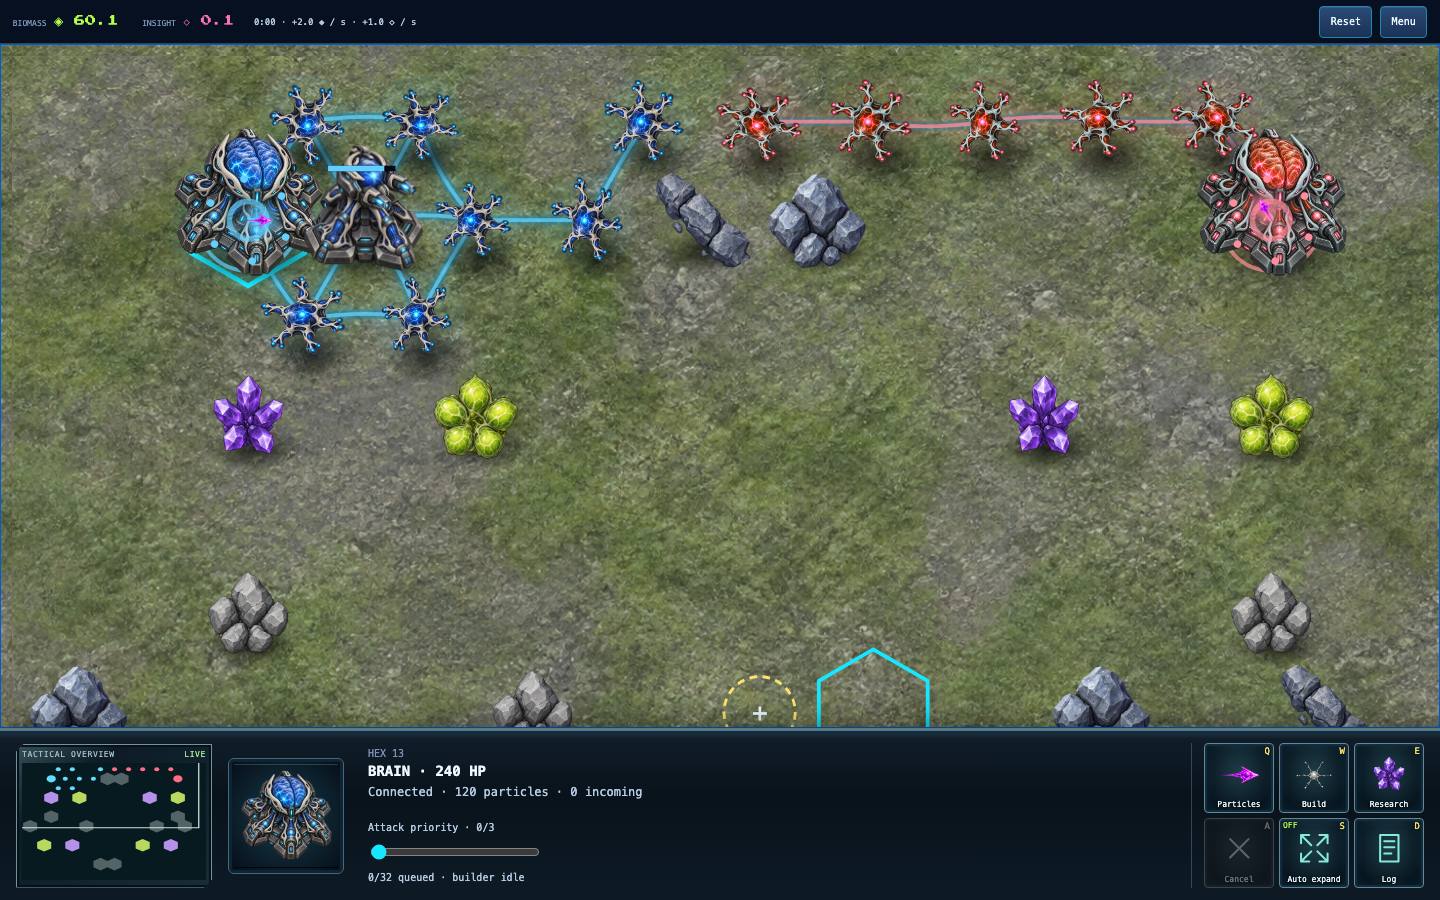
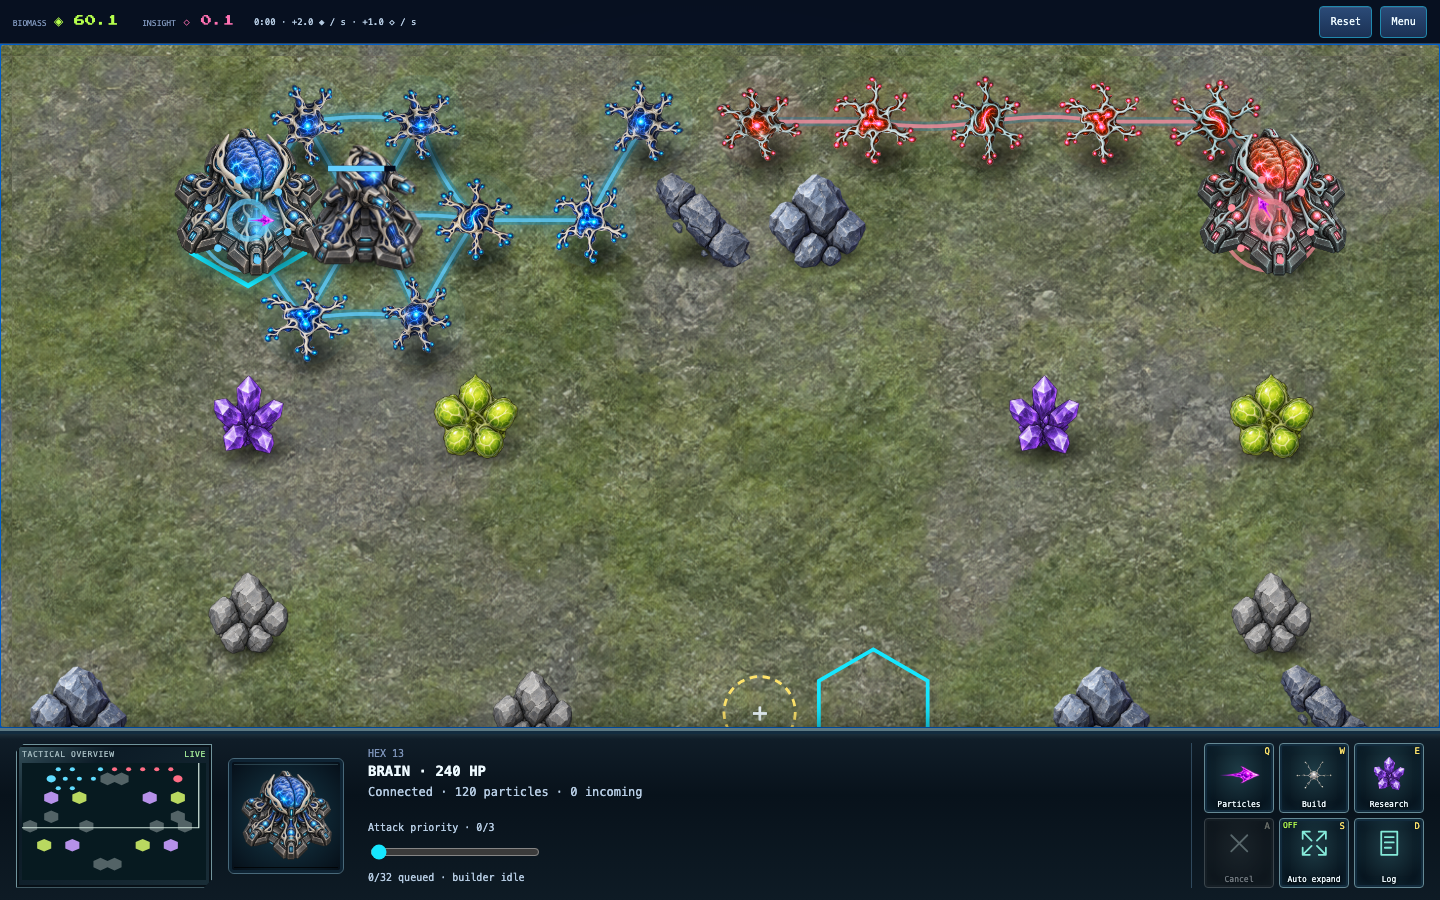
fix(neural-defence): vary neuron anatomy and select raised building bodies

diff --git a/games/neural-defence/src/render/board.ts b/games/neural-defence/src/render/board.ts
@@ -120,7 +120,7 @@ export function neuronArtwork(
   const { x, y } = hexCenter(width, cell);
   const seed = (cell * 37 + slot * 17) % 97;
   const size = 49 + (seed % 7);
-  return `<g class="neuron-body" data-phase="${seed}" style="--team:${colors[slot]};transform-origin:${x}px ${y}px"><g style="filter:${teamArtFilter(slot)}" transform="rotate(${(seed % 6) * 60} ${x} ${y})">${image(sprites, "neuron-v3", x, y, size) || `<circle class="structure-core" cx="${x}" cy="${y}" r="12"/>`}</g></g>`;
+  return `<g class="neuron-body" data-phase="${seed}" style="--team:${colors[slot]};transform-origin:${x}px ${y}px"><g style="filter:${teamArtFilter(slot)}" transform="rotate(${(seed % 6) * 60} ${x} ${y})">${image(sprites, structureArt("neuron", cell), x, y, size) || image(sprites, "neuron-v3", x, y, size) || `<circle class="structure-core" cx="${x}" cy="${y}" r="12"/>`}</g></g>`;
 }
 export function structureArtwork(
   width: number,
@@ -158,7 +158,15 @@ function structureMarkup(world: Readonly<World>, sprites: Sprites): string {
         slot,
         sprites,
       );
-      return `<g class="structure structure-${s.kind} ${s.connected ? "" : "disconnected"}" data-cell="${s.cell}" style="--team:${colors[slot]}"><ellipse class="contact-shadow" cx="${x + 4}" cy="${y + 19}" rx="${s.kind === "neuron" ? 23 : 34}" ry="16" fill="url(#contact-shadow)"/><circle class="owner-ring" cx="${x}" cy="${y}" r="${s.kind === "brain" ? 27 : 10}"/>${artwork || `<circle class="structure-core" cx="${x}" cy="${y}" r="15"/>`}${stock && s.connected ? `<g class="supply-orbit" style="transform-origin:${x}px ${y}px">${Array.from({ length: Math.min(6, Math.ceil(stock / 8)) }, (_, i) => `<circle cx="${x + Math.cos((i * Math.PI) / 3) * 22}" cy="${y + Math.sin((i * Math.PI) / 3) * 22}" r="2" fill="${colors[slot]}"/>`).join("")}</g>` : ""}${health}<circle class="charge-halo" cx="${x}" cy="${y}" r="10" opacity="${Math.min(0.7, stock / 48)}"/></g>`;
+      // Select the raised body as well as the ground footprint. These are
+      // presentation hit regions only; placement continues to target terrain.
+      const hit =
+        s.kind === "neuron"
+          ? { rx: 17, ry: 17, offset: 0 }
+          : s.kind === "brain" || s.kind === "relay"
+            ? { rx: 24, ry: 41, offset: -8 }
+            : { rx: 24, ry: 33, offset: -3 };
+      return `<g class="structure structure-${s.kind} ${s.connected ? "" : "disconnected"}" data-cell="${s.cell}" style="--team:${colors[slot]}"><ellipse class="contact-shadow" cx="${x + 4}" cy="${y + 19}" rx="${s.kind === "neuron" ? 23 : 34}" ry="16" fill="url(#contact-shadow)"/><circle class="owner-ring" cx="${x}" cy="${y}" r="${s.kind === "brain" ? 27 : 10}"/>${artwork || `<circle class="structure-core" cx="${x}" cy="${y}" r="15"/>`}${stock && s.connected ? `<g class="supply-orbit" style="transform-origin:${x}px ${y}px">${Array.from({ length: Math.min(6, Math.ceil(stock / 8)) }, (_, i) => `<circle cx="${x + Math.cos((i * Math.PI) / 3) * 22}" cy="${y + Math.sin((i * Math.PI) / 3) * 22}" r="2" fill="${colors[slot]}"/>`).join("")}</g>` : ""}${health}<circle class="charge-halo" cx="${x}" cy="${y}" r="10" opacity="${Math.min(0.7, stock / 48)}"/><ellipse class="structure-hit" cx="${x}" cy="${y + hit.offset}" rx="${hit.rx}" ry="${hit.ry}"/></g>`;
     })
     .join("");
 }

diff --git a/scripts/neural-defence-terrain-smoke.ts b/scripts/neural-defence-terrain-smoke.ts
@@ -28,6 +28,31 @@ for (const [name, browserType] of [
     await page.locator('[data-action="new-game"]').click();
     await page.locator('[data-action="mode-sandbox"]').click();
     await page.locator('[data-action="start"]').click();
+    // The brain projects above its base hex. Selection should pick the body;
+    // placement at the same point should still pick the ground behind it.
+    const head = await page
+      .locator(".structure-brain .building-art image")
+      .first()
+      .evaluate((node) => {
+        const image = node as SVGImageElement;
+        const x =
+          Number(image.getAttribute("x")) +
+          Number(image.getAttribute("width")) / 2;
+        const y =
+          Number(image.getAttribute("y")) +
+          Number(image.getAttribute("height")) * 0.18;
+        const point = new DOMPoint(x, y).matrixTransform(image.getScreenCTM()!);
+        return { x: point.x, y: point.y };
+      });
+    await page.mouse.click(head.x, head.y);
+    assert.match(await page.locator(".tile-heading").innerText(), /brain/i);
+    await page.keyboard.press("w");
+    await page.keyboard.press("q");
+    await page.mouse.move(head.x + 1, head.y);
+    await page.locator('.placement-preview[data-valid="true"]').waitFor();
+    await page.keyboard.press("Escape");
+    // Restore the brain context before the terrain checks below.
+    await page.mouse.click(head.x, head.y);
     const cells = await page
       .locator("#nd-board .terrain-layer .hex")
       .evaluateAll((tiles) =>
@@ -97,8 +122,25 @@ for (const [name, browserType] of [
       "minimap moves camera",
     );
     assert.deepEqual(errors, []);
+    await page.goto(url);
+    await page.locator('[data-action="new-game"]').click();
+    await page.locator('[data-action="mode-combat-lab"]').click();
+    await page.locator('[data-action="start"]').click();
+    const anatomies = await page
+      .locator("#nd-board .neuron-body image")
+      .evaluateAll((images) => [
+        ...new Set(images.map((node) => node.getAttribute("href"))),
+      ]);
+    assert.equal(
+      anatomies.length,
+      3,
+      "live network shows three different neuron anatomies",
+    );
+    await page.screenshot({ path: `/tmp/neural-anatomy-${name}-desktop.png` });
+    await page.setViewportSize({ width: 390, height: 844 });
+    await page.screenshot({ path: `/tmp/neural-anatomy-${name}-phone.png` });
     console.log(
-      `${name}: terrain matches map data, visible rock rejects placement, minimap pans`,
+      `${name}: raised body selection, ground placement, terrain rejection and minimap navigation passed`,
     );
   } finally {
     await browser.close();

diff --git a/games/neural-defence/tests/polish.test.ts b/games/neural-defence/tests/polish.test.ts
@@ -4,8 +4,12 @@ import { readFileSync } from "node:fs";
 import { createMatch, loadMap } from "../src/engine/index.js";
 import { createCueTracker } from "../src/app/audio.js";
 import { minimapCell, minimapMarkup } from "../src/render/minimap.js";
-import { hexCenter } from "../src/render/board.js";
-import { structureArt } from "../src/render/art.js";
+import {
+  hexCenter,
+  neuronArtwork,
+  structureArtwork,
+} from "../src/render/board.js";
+import { structureArt, NEURON_ART } from "../src/render/art.js";
 
 function world() {
   return createMatch(
@@ -46,6 +50,33 @@ test("tower identities are distinct across the shared presentation contract", ()
   );
   assert.equal(structureArt("brain"), "brain-v3");
   assert.equal(structureArt("neuron"), "neuron-v3");
+});
+
+test("neuron anatomy varies with location and remains identical across ghost, world and portrait", () => {
+  const sprites = Object.fromEntries(
+    NEURON_ART.map((name) => [name, `/${name}.png`]),
+  );
+  const used = new Set<string>();
+  for (let cell = 0; cell < 40; cell++) {
+    const name = structureArt("neuron", cell);
+    used.add(name);
+    const worldArt = neuronArtwork(12, cell, 0, sprites);
+    const ghostArt = structureArtwork(12, cell, "neuron", 0, sprites);
+    assert.equal(ghostArt, worldArt);
+    assert.ok(
+      worldArt.includes(`href="/${name}.png"`),
+      "rendered body matches the portrait resolver",
+    );
+    assert.ok(
+      neuronArtwork(12, cell, 1, sprites).includes(`href="/${name}.png"`),
+      "team tint does not change anatomy",
+    );
+  }
+  assert.deepEqual(
+    [...used].sort(),
+    [...NEURON_ART].sort(),
+    "uses genuinely different sprite files, not just transformed copies",
+  );
 });
 
 test("audio cues follow resolved events once, remain bounded and ignore rollback bursts", () => {

diff --git a/games/neural-defence/src/render/art.ts b/games/neural-defence/src/render/art.ts
@@ -1,9 +1,19 @@
 import type { StructureKind } from "../engine/types.js";
 
 /** One visual identity shared by battlefield, command card and inspection. */
-export function structureArt(kind: StructureKind): string {
+export const NEURON_ART = [
+  "neuron-v3",
+  "neuron-lobed-v4",
+  "neuron-folded-v4",
+] as const;
+
+export function structureArt(kind: StructureKind, cell?: number): string {
   if (kind === "brain") return "brain-v3";
-  if (kind === "neuron") return "neuron-v3";
+  if (kind === "neuron") {
+    if (cell === undefined) return NEURON_ART[0];
+    const seed = (Math.imul(cell + 1, 0x45d9f3b) ^ ((cell + 1) >>> 3)) >>> 0;
+    return NEURON_ART[seed % NEURON_ART.length]!;
+  }
   return `tower-${kind === "tower" ? "pulse" : kind}-v3`;
 }
 

diff --git a/games/neural-defence/src/app/app.ts b/games/neural-defence/src/app/app.ts
@@ -390,7 +390,7 @@ export function mountNeuralDefence(
     const sprite = (name: string) =>
       dependencies.sprites?.[`${name}-v2`] ?? dependencies.sprites?.[name];
     const portrait = structure
-      ? sprite(structureArt(structure.kind))
+      ? sprite(structureArt(structure.kind, structure.cell))
       : cell?.terrain === "deposit"
         ? sprite(`deposit-${cell.resourceKind}`)
         : sprite(

diff --git a/games/neural-defence/src/app/neural-defence.css b/games/neural-defence/src/app/neural-defence.css
@@ -931,6 +931,14 @@ select {
 .structure.disconnected {
   opacity: 0.4;
 }
+.structure-hit {
+  fill: transparent;
+  pointer-events: all;
+  cursor: pointer;
+}
+.is-placing .structure-layer * {
+  pointer-events: none;
+}
 .supply-orbit {
   pointer-events: none;
 }

diff --git a/docs/neural-defence/art/NEURON_FORMS.md b/docs/neural-defence/art/NEURON_FORMS.md
@@ -1,0 +1,26 @@
+# Distinct neuron forms
+
+The original v3 neuron remains one form. Two additional transparent PNGs give the network visibly different cell bodies, rather than just rotating one silhouette:
+
+- `games/neural-defence/src/assets/neuron-lobed-v4.png`: three-lobed soma and three linked nuclei.
+- `games/neural-defence/src/assets/neuron-folded-v4.png`: folded oval soma and curved synaptic fissure.
+
+Both retain six primary roots, the same cobalt/ivory materials and overhead view. These are cosmetic forms of one unit, with identical gameplay. A stable cell-based resolver in `render/art.ts` chooses the form; world, placement ghost and selected portrait share it. Ownership only changes tint. The build catalog uses the representative original form.
+
+Generated with the built-in image generator, using `neuron-v3.png` as the visual reference. Both files were inspected directly, alpha was verified, and the actual combat-lab network was captured on desktop and phone. Engine state and map geometry are unchanged.
+
+## Exact prompts
+
+Lobed:
+
+> Use the supplied neuron sprite as the material, lighting and camera reference for a SECOND distinct neuron of the same biological RTS species. Create one isolated game sprite, genuine transparent alpha background. Preserve deep cobalt translucent living tissue, restrained bright cyan interior veins, smooth ivory fibrous ribs, sculpted painterly 3D volume, overhead orthographic camera, upper-left light and soft underside shading. Change the anatomy visibly: a broad asymmetrical three-lobed soma with three small glowing nuclei linked inside its membrane instead of one round central bulb; short thick root collars transitioning into finer curled tendrils. Exactly six principal connection arms, tips arranged roughly every 60 degrees around the center so it fits the same six-neighbor hex network. Asymmetric branching and varied root thickness, organic living tissue, not a machine or gun. The soma should occupy the central 45 percent of the overall footprint so its different body reads at 60px. Compact round footprint and clear transparent margins. No floor, scene, text, UI, border, shadow plane, extra sprites, or solid background. Entire object visible.
+
+Folded:
+
+> Use the supplied neuron sprite as the material, lighting and camera reference for a THIRD distinct neuron of the same biological RTS species. One isolated game sprite on genuine transparent alpha background. Preserve deep cobalt translucent living tissue, restrained cyan interior veins, ivory fibrous ribs, sculpted painterly 3D volume, overhead orthographic camera, upper-left light and soft underside shading. Change anatomy visibly: a compact slightly elongated kidney-shaped soma wrapped by an open spiral of ivory neural folds, with one long bright cyan synaptic fissure instead of a round central glowing bulb. The body is dense, folded and low, not hollow. Six principal organic connection roots roughly every 60 degrees around the soma, thick knotted bases and finer irregular branching tips; same six-neighbor hex network footprint. The soma occupies the central 45 percent so its unusual folded form reads when 60px wide. Living tissue, not a machine, eyeball or gun. Compact round footprint, clear transparent margin, all root tips visible. No floor, scene, text, UI, border, shadow plane, extra sprites, or solid background.
+
+## Selection correction
+
+Tall building images project above their ground hex. Previously, clicking the brain's upper body selected the empty hex behind it. Presentation-only hit regions now select the building. During placement these regions are disabled, so the same pointer position still targets the ground. This does not enlarge the building's simulation footprint.
+
+The terrain browser smoke covers that exact pointer location in Chromium and WebKit, plus all three distinct neuron image URLs in a real network. Unit checks cover ghost/world/portrait consistency and stable anatomy across ownership colors. Independent diff review found no actionable regression.

diff --git a/docs/neural-defence/ASSET_MANIFEST.md b/docs/neural-defence/ASSET_MANIFEST.md
@@ -2,7 +2,7 @@
 
 ## Current presentation (2026-09-25)
 
-The current renderer uses `brain-v3.png`, `neuron-v3.png`, `tower-pulse-v3.png`, `tower-siege-v3.png`, and `tower-relay-v3.png`. They are individual transparent sculpted sprites, tinted by owner. World buildings, placement ghosts, portraits and build commands share these identities. Selection and status remain separate presentation layers. Completed neurons have stable size/orientation variation and reduced-motion-aware breathing; links represent actual friendly adjacency.
+The current renderer uses `brain-v3.png`, three neuron forms (`neuron-v3.png`, `neuron-lobed-v4.png`, `neuron-folded-v4.png`), `tower-pulse-v3.png`, `tower-siege-v3.png`, and `tower-relay-v3.png`. They are individual transparent sculpted sprites, tinted by owner. World buildings, placement ghosts and portraits share these identities; the build catalog uses representative forms. Selection and status remain separate presentation layers. Completed neurons have stable anatomical, size and orientation variation and reduced-motion-aware breathing; links represent actual friendly adjacency. [Neuron form prompts and selection verification](art/NEURON_FORMS.md) document the follow-up.
 
 The continuous open floor is **`terrain-walkable-v5.png`**. It depicts only level moss, earth and small grit. The rejected v4 background suggested large rock ridges on open cells and is not used. All raised obstacles and resource deposits come from `world.map.cells`, using the category-restricted [terrain art catalog](../../games/neural-defence/src/render/terrain-art.ts). Art and contact shadows are clipped to their cell. Unknown or mismatched variant names use the category default; a blocked tile remains visible even if its sprite is unavailable. The tactical minimap draws the same complete terrain footprints. No painted background feature adds collision, elevation or pathfinding rules.
 

diff --git a/docs/neural-defence/verification/PREMIUM_TERRAIN.md b/docs/neural-defence/verification/PREMIUM_TERRAIN.md
@@ -19,3 +19,9 @@ Independent review found that suspending audio on mute preserved scheduled voice
 ## Limits
 
 Phone evidence is browser emulation, not physical hardware. The reference art quality remains a user-facing acceptance question; test success is not proof of visual equivalence. No production deployment or merge is included.
+
+## Anatomy and selection follow-up
+
+The follow-up replaces rotation-only neuron variation with three distinct illustrated anatomies, shared by live units, ghosts and portraits. It also fixes clicking a tall building's upper body selecting the terrain behind it. Placement still targets terrain. Independent review found no actionable regression.
+
+Full suite: **1,682 passed**. Typecheck/build, focused lint and 21 focused presentation/UI tests passed. Chromium and WebKit passed the body-versus-ground pointer regression, all three image forms in the live combat lab, and normal-time expansion/supply/reduced-motion checks at desktop and phone sizes. [Assets and exact prompts](../art/NEURON_FORMS.md).
